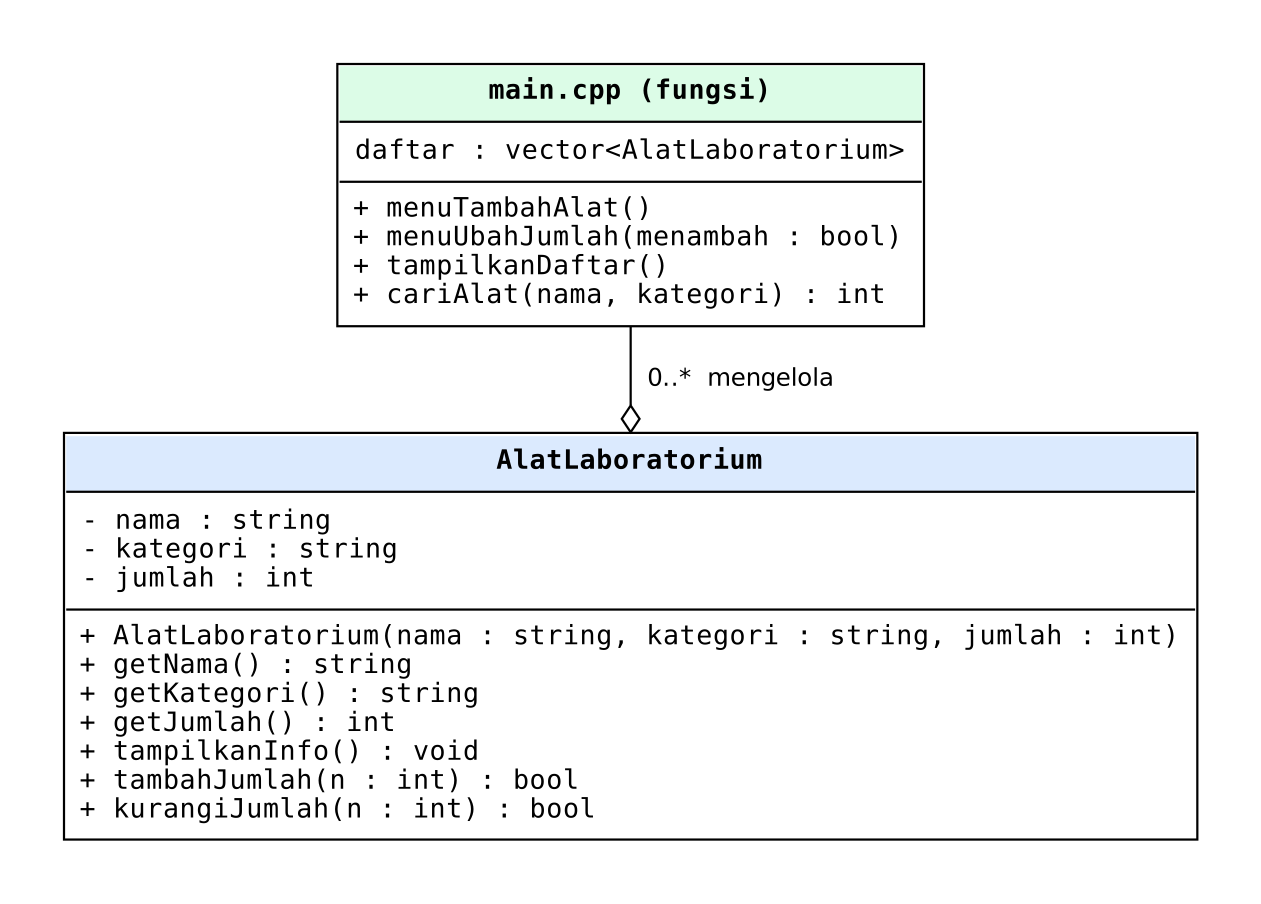
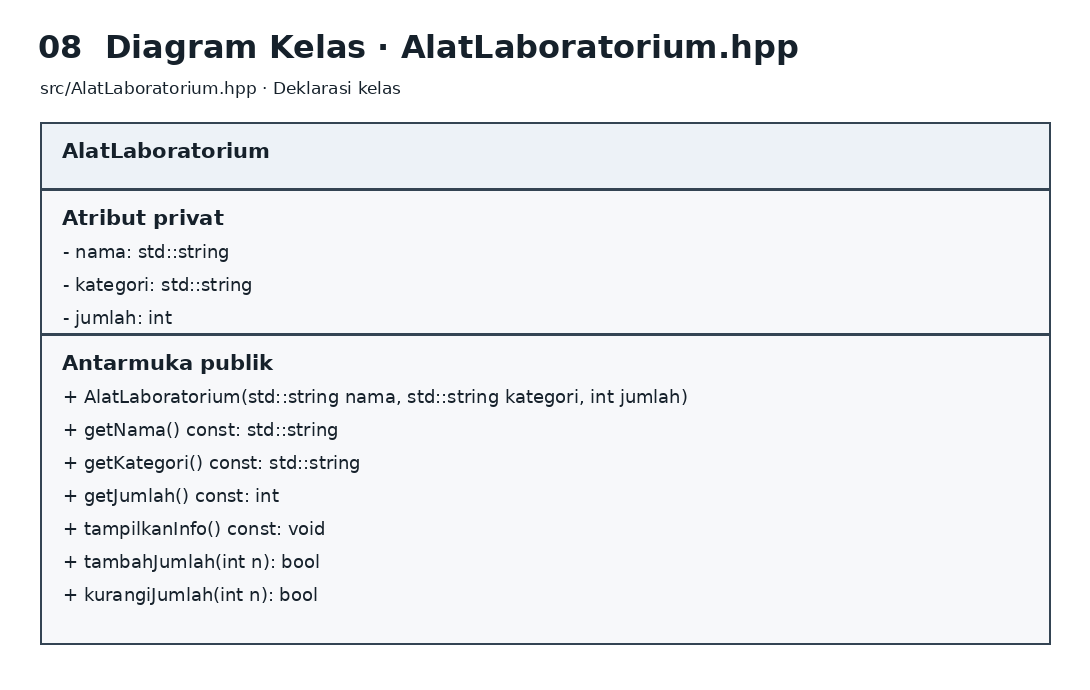
ngelengkapi flowcrot sama diagram kelas

diff --git a/README.md b/README.md
@@ -33,8 +33,9 @@ src/
   AlatLaboratorium.cpp   implementasi method
   main.cpp               koleksi objek (vector) dan menu
 docs/
-  class_diagram.png
-  flowchart.png
+  flowchart.png          diagram alur sistem
+  class_diagram.png      diagram kelas
+  flowchart_*.png        diagram alur per file dan per fungsi
   screenshot_tambah_dan_tampilkan.png
   screenshot_ubah_jumlah.png
 tests/
@@ -89,8 +90,17 @@ Hasil `make test`: 15 dari 15 uji lulus.
 Program juga dijalankan sekali dengan AddressSanitizer dan UBSan (`-fsanitize=address,undefined`) pada skenario tambah, ubah, dan tampilkan, tanpa temuan.
 
 ## Diagram
-- Diagram kelas: `docs/class_diagram.png`
-- Flowchart menu: `docs/flowchart.png`
+
+| No. | Diagram | Cakupan |
+|---|---|---|
+| 01 | [Sistem inventaris lengkap](docs/flowchart.png) | Alur dari menu hingga keluar |
+| 02 | [Alur per file main.cpp](docs/flowchart_main.png) | Pengendali menu dan pemanggilan fungsi |
+| 03 | [Tambah alat dan cari duplikat](docs/flowchart_main_tambah_alat.png) | Validasi data dan pencarian duplikat |
+| 04 | [Tambah dan kurangi jumlah](docs/flowchart_main_ubah_jumlah.png) | Pemilihan alat, perubahan jumlah, dan hasil |
+| 05 | [Tampilkan daftar alat](docs/flowchart_main_tampilkan_daftar.png) | Pengecekan daftar kosong dan perulangan objek |
+| 06 | [Pembacaan dan normalisasi input](docs/flowchart_main_input.png) | Pembacaan, parsing, dan normalisasi teks |
+| 07 | [Alur per file AlatLaboratorium.cpp](docs/flowchart_alat_laboratorium_cpp.png) | Konstruktor, getter, tampilan, dan perubahan jumlah |
+| 08 | [Diagram kelas AlatLaboratorium.hpp](docs/class_diagram.png) | Deklarasi atribut dan antarmuka publik |
 
 ## Screenshot Output
 Tambah alat dan tampilkan daftar:
